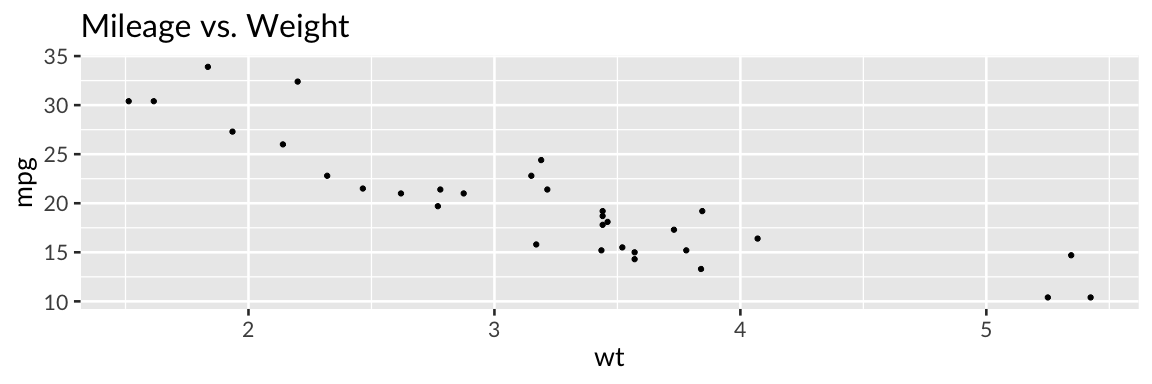
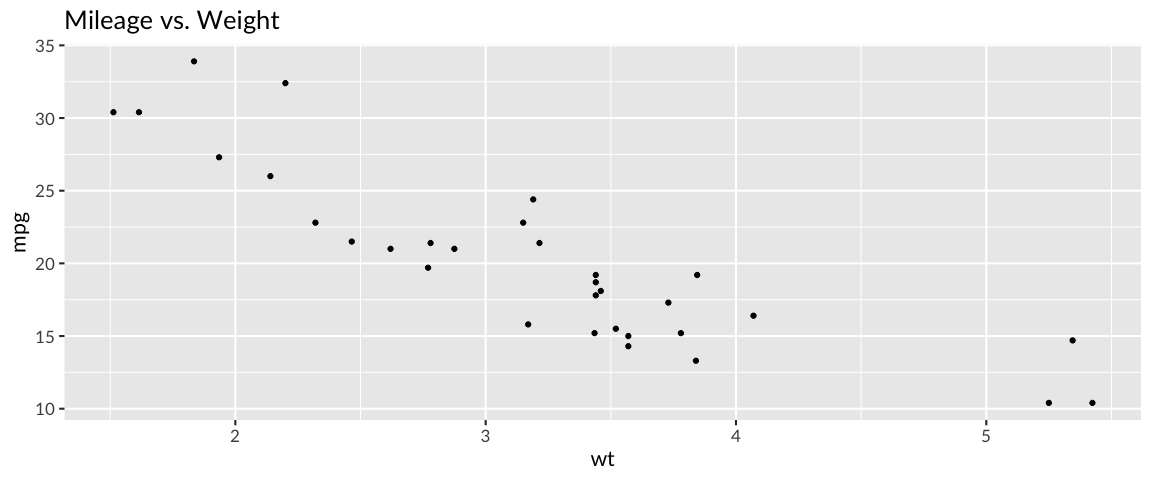
another update

diff --git a/article1/article1.md b/article1/article1.md
@@ -36,7 +36,7 @@ prevent printing of the R code that generated the plot.
 library(ggplot2)
 ggplot(mtcars, aes(x = wt, y = mpg)) +
   geom_point() +
-  theme_gray(base_size = 20, base_family = 'Lato') +
+  theme_gray(base_size = 16, base_family = 'Lato') +
   labs(title = 'Mileage vs. Weight')
 ```
 
